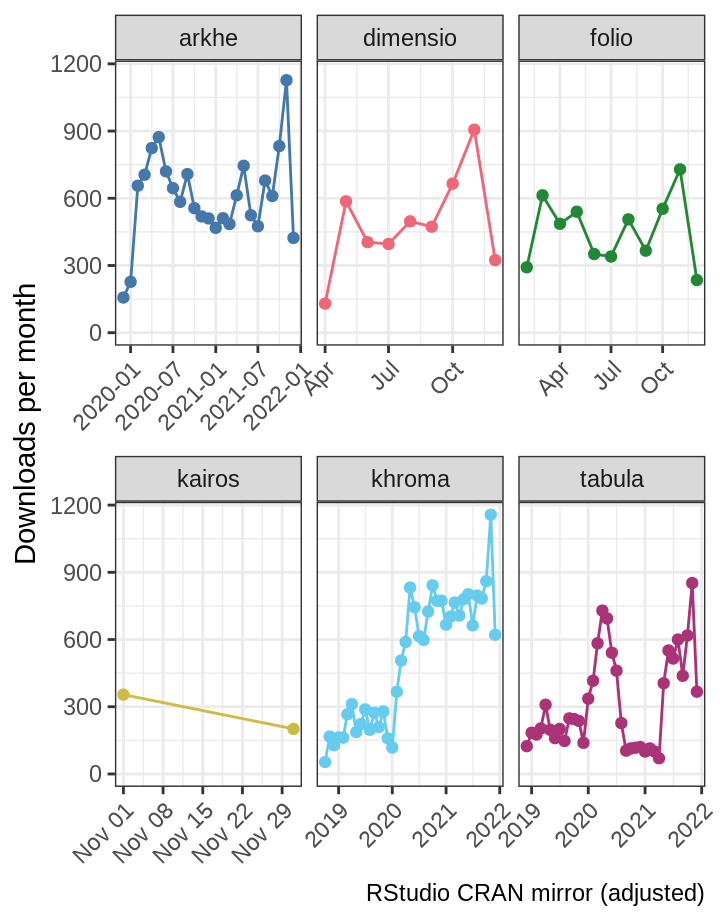
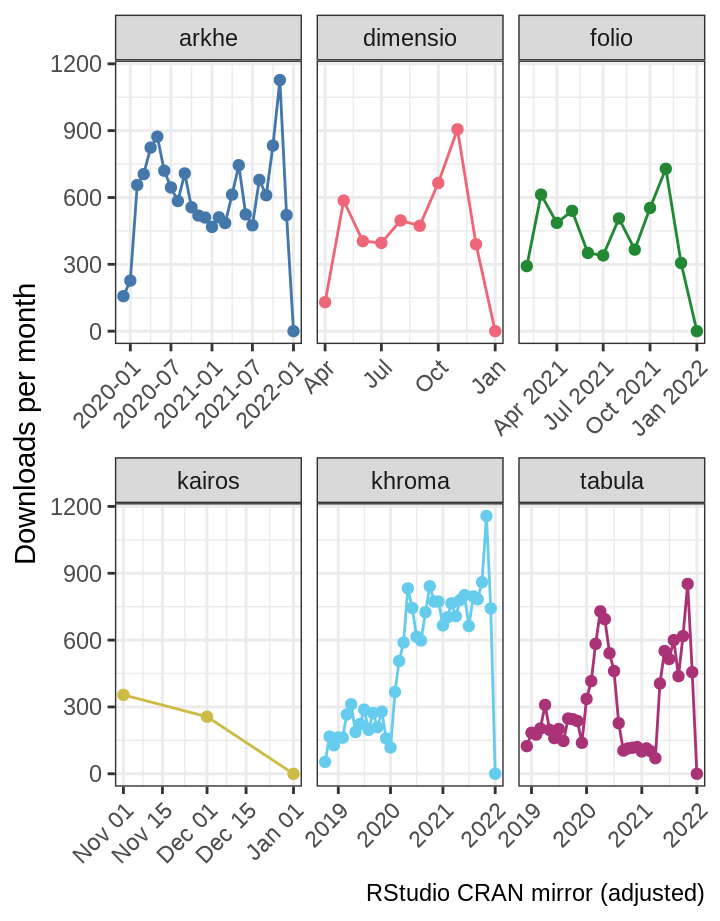
Deploying to gh-pages from @ tesselle/packages@d3522fc516f169d3a068e4e67444130023bb2bf4 🚀

diff --git a/index.html b/index.html
@@ -2659,7 +2659,7 @@ window.FlexDashboardComponents.push({
 <h2>tesselle</h2>
 <p><a href="https://www.tesselle.org/"><strong>tesselle</strong></a> is a collection of <a href="https://www.r-project.org/">R</a> packages for research and teaching in archaeology. These packages focus on quantitative analysis methods developed for archaeology.</p>
 <p>The <strong>tesselle</strong> packages are designed to work seamlessly together and to complement general-purpose and other specialized statistical packages.</p>
-<p>Last update: 2021-12-27.</p>
+<p>Last update: 2022-01-03.</p>
 </div>
 <div id="column" class="section level2 tabset">
 <h2>Column</h2>
